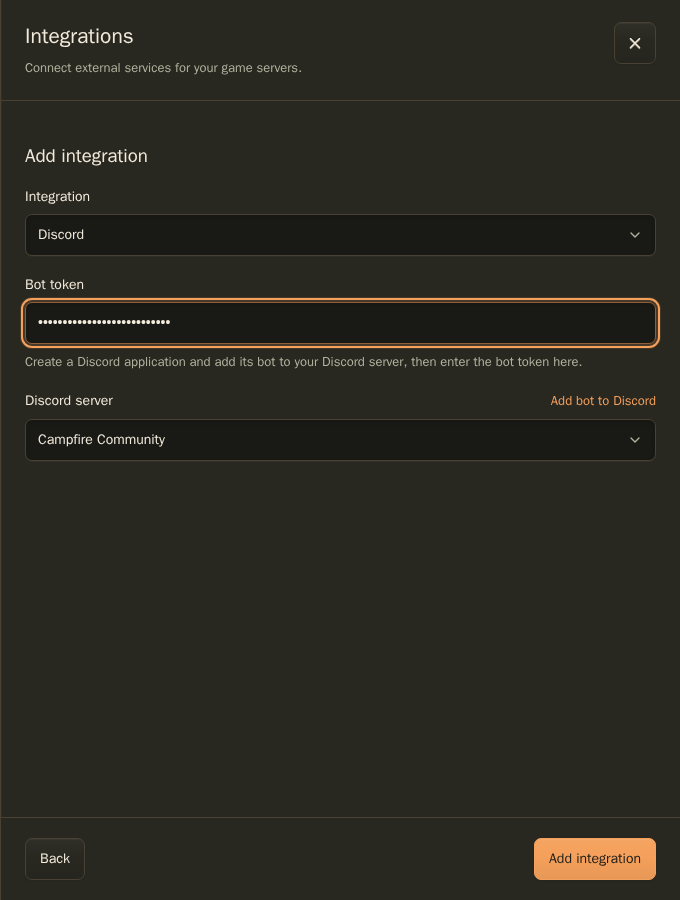
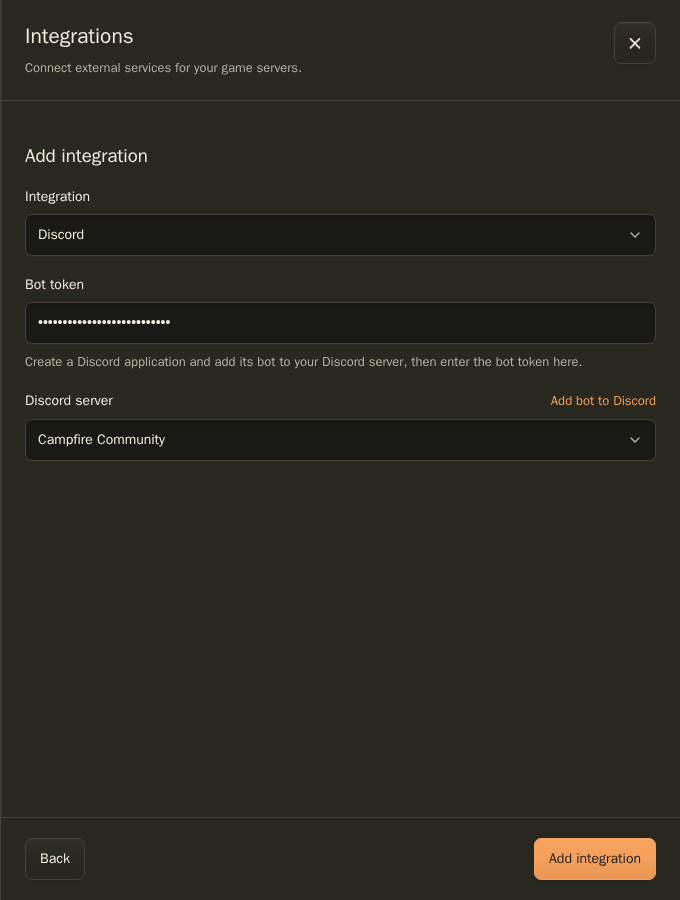
Capture Discord integration screenshot without input focus

Changed region(s): [[0.0309, 0.3111, 0.9882, 0.4044]]

diff --git a/e2e/integrations.spec.ts b/e2e/integrations.spec.ts
@@ -824,9 +824,9 @@ test("administrators add, edit, test, disable, and remove Discord connections", 
   expect(inviteURL.searchParams.get("scope")).toBe("bot");
   expect(inviteURL.searchParams.get("permissions")).toBe("117760");
   expect(inviteURL.href).not.toContain("campfire-test-discord-token");
-  // Async token discovery can change focus; match the baseline deliberately.
-  await token.click();
-  await expect(token).toBeFocused();
+  // Keep the screenshot independent of focus changes during token discovery.
+  await token.blur();
+  await expect(token).not.toBeFocused();
   await screenshot(page, "integrations-discord-add.png", drawer);
   await save.click();
   const connection = drawer.getByRole("table", {
